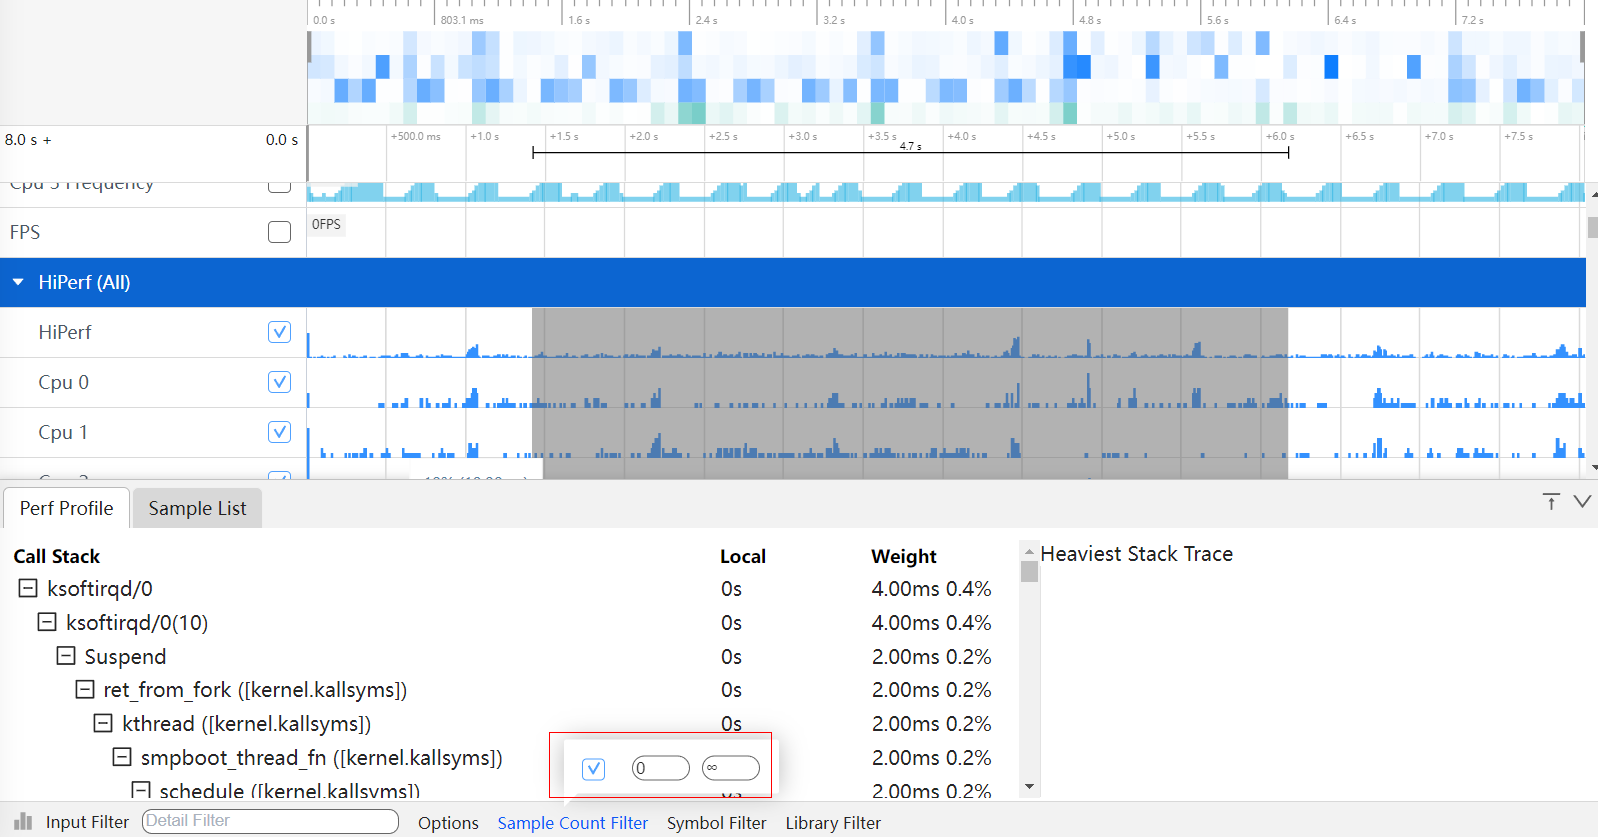
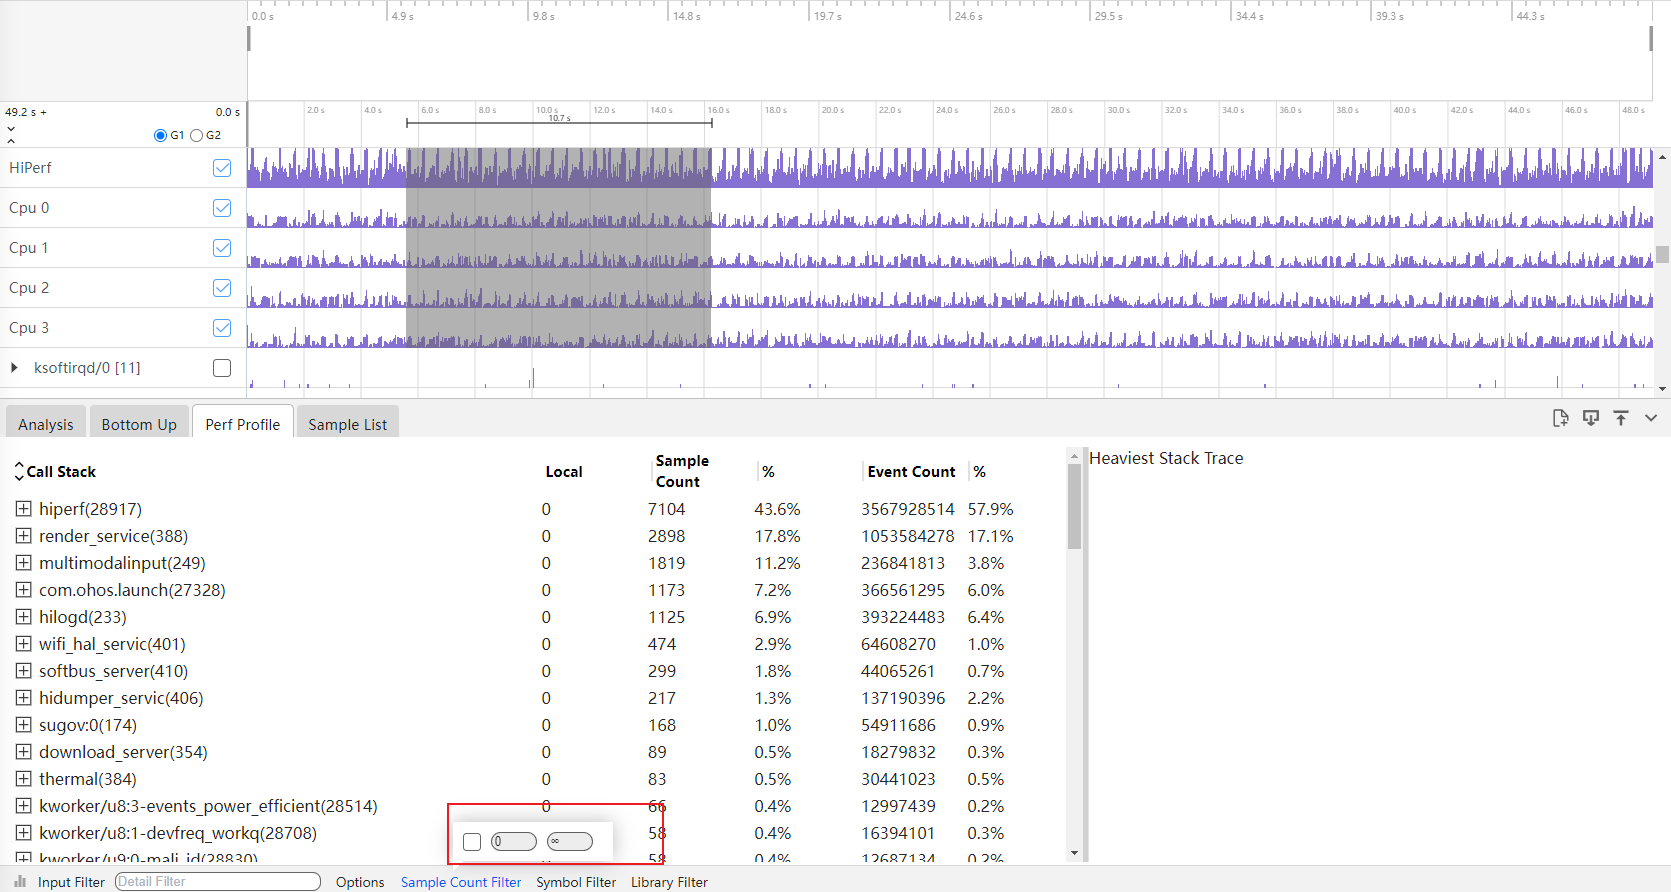
帮助文档修改

diff --git a/ide/src/doc/quickstart_hiperf.html b/ide/src/doc/quickstart_hiperf.html
@@ -885,7 +885,7 @@ Advance Options：更多的抓取配置项。
       <h3 class="mume-header fontColor">HiPerf泳道图的框选功能</h3>
 
       <p class="fontColor">
-        可以对CPU使用量区，线程和进程区数据进行框选，框选后在最下方的弹出层中会展示框选数据的统计表格，总共有两个tab页。<br />
+        可以对CPU使用量区，线程和进程区数据进行框选，框选后在最下方的弹出层中会展示框选数据的统计表格，总共有四个tab页。<br />
         Perf Profile的Tab页如图：<br />
         <img src="../figures/perf/PerfProfile.jpg" alt="GitHub Logo" />
       </p>
@@ -904,7 +904,13 @@ Local：为该调用方法自身占用的CPU时间。
         </li>
         <li>
           <pre class="smartperf-text fontColor light">
-Weight：调用方法的执行次数和占比。
+Sample Count：采样数量。
+</pre
+          >
+        </li>
+        <li>
+          <pre class="smartperf-text fontColor light">
+Event Count：事件数量。
 </pre
           >
         </li>
@@ -954,7 +960,7 @@ Backtrace：栈顶的调用栈名称。
       <h3 class="mume-header fontColor">HiPerf支持多种Options展示风格</h3>
 
       <p class="fontColor">
-        点击Perf Profile的Tab页底部的Options，会有两个CheckBox复选框。<br />
+        点击Perf Profile的Tab页底部的Options，会有四个CheckBox复选框。<br />
         <img src="../figures/perf/Options.jpg" alt="GitHub Logo" />
       </p>
       <ul class="fontColor">
@@ -970,11 +976,23 @@ Hide System so：隐藏系统库文件。
 </pre
           >
         </li>
+        <li>
+          <pre class="smartperf-text fontColor light">
+Hide Thread：隐藏线程。
+</pre
+          >
+        </li>
+        <li>
+          <pre class="smartperf-text fontColor light">
+Hide Thread State：隐藏线程状态。
+</pre
+          >
+        </li>
       </ul>
       <h3 class="mume-header fontColor">HiPerf支持过滤调用栈调用次数的展示风格</h3>
 
       <p class="fontColor">
-        点击Perf Profile的Tab页底部的Sample Counter Filter，可以填上区间值。过滤出符合该区间值调用次数的调用栈信息。<br />
+        点击Perf Profile的Tab页底部的Sample Count Filter，可以填上区间值。过滤出符合该区间值调用次数的调用栈信息。<br />
         <img src="../figures/perf/samplecounter.jpg" alt="GitHub Logo" />
       </p>
       <h3 class="mume-header fontColor">HiPerf功能的调用栈Group展示-数据分析支持剪裁功能</h3>

diff --git a/ide/src/doc/quickstart_bio.html b/ide/src/doc/quickstart_bio.html
@@ -908,7 +908,7 @@ Max Total Latency：最大延迟时间。
         </li>
       </ul>
       <p class="fontColor">
-        Disk I/O Latency Calltree的Tab页如图：<br />
+        Disk I/O Latency CallTree的Tab页如图：<br />
         <img src="../figures/Bio/BioCalltree.jpg" alt="GitHub Logo" />
       </p>
       <ul class="fontColor">
@@ -1006,7 +1006,7 @@ BackTrace：调用栈顶部函数，并显示调用栈深度。
       <h3 class="mume-header fontColor">Bio支持多种Options展示风格</h3>
 
       <p class="fontColor">
-        点击Disk I/O Latency Calltree的Tab页底部的Options，会有两个CheckBox复选框。<br />
+        点击Disk I/O Latency CallTree的Tab页底部的Options，会有两个CheckBox复选框。<br />
         <img src="../figures/Bio/BioOptions.jpg" alt="GitHub Logo" />
       </p>
       <ul class="fontColor">
@@ -1026,7 +1026,7 @@ Hide System so：隐藏系统库文件  。
       <h3 class="mume-header fontColor">Bio支持过滤调用栈调用次数的展示风格</h3>
 
       <p class="fontColor">
-        点击Disk I/O Latency Calltree的Tab页底部的Sample Counter
+        点击Disk I/O Latency CallTree的Tab页底部的Sample Count
         Filter，可以填上区间值。过滤出符合该区间值调用次数的调用栈信息。<br />
         <img src="../figures/Bio/Biocounter.jpg" alt="GitHub Logo" />
       </p>
@@ -1068,9 +1068,9 @@ Hide System so：隐藏系统库文件  。
       <h3 class="mume-header fontColor">Bio的火焰图功能</h3>
 
       <p class="fontColor">
-        点击Disk I/O Latency Calltree左下角的柱状图的图标，会切换到火焰图页面。<br />
+        点击Disk I/O Latency CallTree左下角的柱状图的图标，会切换到火焰图页面。<br />
         <img src="../figures/Bio/Bioflame.jpg" alt="GitHub Logo" /><br />
-        进入到火焰图页面，火焰图的展示跟 Disk I/O Latency Calltree 的tab页的调用栈显示一致，鼠标放到色块上，悬浮框可以显示调用栈名称和Duration时长。<br />
+        进入到火焰图页面，火焰图的展示跟 Disk I/O Latency CallTree 的tab页的调用栈显示一致，鼠标放到色块上，悬浮框可以显示调用栈名称和Duration时长。<br />
         <img src="../figures/Bio/Bioflameshow.jpg" alt="GitHub Logo" /><br />
         鼠标点击火焰图，会进入下一级界面，点击上级则返回上一级界面。<br />
         <img src="../figures/Bio/Bioflamelevel.jpg" alt="GitHub Logo" />

diff --git a/ide/src/doc/quickstart_filesystem.html b/ide/src/doc/quickstart_filesystem.html
@@ -986,6 +986,24 @@ Thread：线程名。
         </li>
         <li>
           <pre class="smartperf-text fontColor light">
+Type：操作类型。
+</pre
+          >
+        </li>
+        <li>
+          <pre class="smartperf-text fontColor light">
+File Descriptor：fd。
+</pre
+          >
+        </li>
+        <li>
+          <pre class="smartperf-text fontColor light">
+File Path：文件路径。
+</pre
+          >
+        </li>
+        <li>
+          <pre class="smartperf-text fontColor light">
 First Argument：系统调用的第一个参数。
 </pre
           >
@@ -1128,7 +1146,7 @@ Hide System so：隐藏系统库文件。
       <h3 class="mume-header fontColor">FileSystem支持过滤调用栈调用次数的展示风格</h3>
 
       <p class="fontColor">
-        点击FileSystem Calltree的Tab页底部的Sample Counter
+        点击FileSystem Calltree的Tab页底部的Sample Count
         Filter，可以填上区间值。过滤出符合该区间值调用次数的调用栈信息。<br />
         <img src="../figures/FileSystem/FileSystemsamplecounter.jpg" alt="GitHub Logo" />
       </p>

diff --git a/ide/src/doc/quickstart_page_fault.html b/ide/src/doc/quickstart_page_fault.html
@@ -1000,7 +1000,7 @@ Hide System so：隐藏系统库文件。
       <h3 class="mume-header fontColor">页内存支持过滤调用栈调用次数的展示风格</h3>
 
       <p class="fontColor">
-        点击Page Fault Calltree的Tab页底部的Sample Counter
+        点击Page Fault Calltree的Tab页底部的Sample Count
         Filter，可以填上区间值。过滤出符合该区间值调用次数的调用栈信息。<br />
         <img src="../figures/EBPF/vmcounter.jpg" alt="GitHub Logo" />
       </p>
@@ -1030,7 +1030,7 @@ Hide System so：隐藏系统库文件。
       <h3 class="mume-header fontColor">页内存的事件类型的过滤</h3>
 
       <p class="fontColor">
-        通过选择可以过滤是File Backed In类型，还是Copy On Write类型事件。<br />
+        通过选择类型事件进行过滤。<br />
         <img src="../figures/EBPF/VMfilter.jpg" alt="GitHub Logo" />
       </p>
       <h3 class="mume-header fontColor">页内存的火焰图功能</h3>

diff --git a/ide/src/doc/quickstart_device_record.html b/ide/src/doc/quickstart_device_record.html
@@ -804,9 +804,9 @@
         <li>Record setting:设置trace的抓取模式，buffer size大小，抓取时长。</li>
         <li>Trace command:生成的抓取命令行。</li>
         <li>Probes config:trace的抓取参数配置。</li>
-        <li>Native Memory:NativeMemory数据的抓取参数配置。</li>
+        <li>Native Memory:Native Memory数据的抓取参数配置。</li>
         <li>Hiperf:Hiperf数据的抓取参数配置。</li>
-        <li>eBPF Config:ebpf数据的抓取参数配置。</li>
+        <li>eBPF Config:eBPF数据的抓取参数配置。</li>
         <li>VM Tracker:smaps数据的抓取参数配置。</li>
         <li>HiSystemEvent:HiSystemEvent数据抓取参数配置。</li>
         <li>SDK Config:SDK数据抓取参数配置。</li>

diff --git a/ide/src/doc/md/quickstart_filesystem.md b/ide/src/doc/md/quickstart_filesystem.md
@@ -35,14 +35,14 @@ FileSystem 分析文件系统的信息和活动，比如读和写操作等。
 
 ### FileSystem 泳道图展示
 
-FileSystem 泳道图按照读操作和写操作展示，鼠标移动都泳道图上，悬浮框会以 10ms 为周期展示读，写类型系统调用的次数。
+FileSystem 泳道图按照读操作和写操作展示，鼠标移动到泳道图上，悬浮框会以 10ms 为周期展示读，写类型系统调用的次数。
 ![GitHub Logo](../../figures/FileSystem/FileSystemchart.jpg)
 按住 w 键放大界面，悬浮框会显示当前时刻的文件读写次数。
 ![GitHub Logo](../../figures/FileSystem/FileSystemcount.jpg)
 
 ### FileSystem 泳道图的框选功能
 
-可以对读写操作泳道图进行框选，框选后在最下方的弹出层中会展示框选数据的统计表格，总共有五个 tab 页。
+可以对读写操作泳道图进行框选，框选后展示框选数据的统计表格，总共有六个 tab 页。
 FileSystem statistics 的 Tab 页如图：
 ![GitHub Logo](../../figures/FileSystem/FileSystemstatistics.jpg)
 
@@ -55,7 +55,7 @@ FileSystem statistics 的 Tab 页如图：
 -     Min Duration：最小时长。
 -     Avg Duration： 平均时长。
 -     Max Duration：最大时长。
-  FileSystem Calltree 的 Tab 页如图：
+  FileSystem CallTree 的 Tab 页如图：
   ![GitHub Logo](../../figures/FileSystem/FileSystemCalltree.jpg)
 -     Call Stack：为经过符号解析后的Callstack，并且给出动态链接库或者进程名的信息。
 -     Local：为该调用方法自身占用的CPU时间。
@@ -66,6 +66,9 @@ FileSystem statistics 的 Tab 页如图：
 -     Duration：时长。
 -     Process：进程名。
 -     Thread：线程名。
+-     Type：操作类型。
+-     File Descriptor：fd。
+-     File Path：文件路径。
 -     First Argument：系统调用的第一个参数。
 -     Second Argument：系统调用的第二个参数。
 -     Third Argument：系统调用的第三个参数。
@@ -80,6 +83,7 @@ FileSystem statistics 的 Tab 页如图：
 -     Process：进程名。
 -     Type：操作类型。
 -     File Descriptor：fd。
+-     Path：文件路径。
 -     Backtrace：调用栈顶部函数，并显示调用栈深度。
   File Descriptor Time Slice 的 Tab 页如图：
   ![GitHub Logo](../../figures/FileSystem/FileSystemtimeslice.jpg)
@@ -87,19 +91,22 @@ FileSystem statistics 的 Tab 页如图：
 -     Open Duration：打开的时长。
 -     Process：进程名。
 -     File Descriptor：fd。
+-     Path：文件路径。
 -     Backtrace：调用栈顶部函数，并显示调用栈深度。
 
 ### FileSystem 支持多种 Options 展示风格
 
-点击 FileSystem Calltree 的 Tab 页底部的 Options，会有两个 CheckBox 复选框。
+点击 FileSystem CallTree 的 Tab 页底部的 Options，会有四个 CheckBox 复选框。
 ![GitHub Logo](../../figures/FileSystem/FileSystemOptions.jpg)
 
 -     Invert：反向输出调用树。
 -     Hide System so：隐藏系统库文件。
+-     Hide Event：隐藏事件。
+-     Hide Thread：隐藏线程。
 
 ### FileSystem 支持过滤调用栈调用次数的展示风格
 
-点击 FileSystem Calltree 的 Tab 页底部的 Sample Counter Filter，可以填上区间值。过滤出符合该区间值调用次数的调用栈信息。
+点击 FileSystem CallTree 的 Tab 页底部的 Sample Count Filter，可以填上区间值。过滤出符合该区间值调用次数的调用栈信息。
 ![GitHub Logo](../../figures/FileSystem/FileSystemsamplecounter.jpg)
 
 ### FileSystem 功能的调用栈 Group 展示-数据分析支持剪裁功能
@@ -128,7 +135,7 @@ FileSystem statistics 的 Tab 页如图：
 
 ### FileSystem 的火焰图功能
 
-点击 FileSystem Calltre 左下角的柱状图的图标，会切换到火焰图页面。
+点击 FileSystem CallTree 左下角的柱状图的图标，会切换到火焰图页面。
 ![GitHub Logo](../../figures/FileSystem/FileSystemflame.jpg)
 进入到火焰图页面，火焰图的展示跟 Callinfo 的 tab 页的调用栈显示一致，鼠标放到色块上，悬浮框可以显示调用栈名称和 Duration 时长。
 ![GitHub Logo](../../figures/FileSystem/FileSystemflameshow.jpg)

diff --git a/ide/src/doc/md/quickstart_native_memory.md b/ide/src/doc/md/quickstart_native_memory.md
@@ -17,7 +17,7 @@ Native Memory 是查看内存的分配和释放等情况。
 - Use Record Accurately：不过滤数据，上报全量的。
 - Use Offline Symbolization：离线符号化。
 - Use Record Statistics：统计数据上报时间间隔设置。
-- Use Startup Mode :抓取应用启动阶段的内存(默认是关闭，需要抓取应用启阶段内存可开启)。
+- Use Startup Mode: 抓取应用启动阶段的内存(默认是关闭，需要抓取应用启阶段内存可开启)。
 
 再点击 Record setting，在 output file path 输入文件名 hiprofiler_data_nativememory.htrace，拖动滚动条设置 buffer size 大小是 64M，抓取时长是 50s。
 ![GitHub Logo](../../figures/NativeMemory/nativememoryset.jpg)
@@ -141,9 +141,10 @@ Call Info 的 Tab 页，主要显示了调用树详细类型。
 
 ### 搜索框支持表达式输入
 
-调用栈默认显示火焰图，新增搜索框表达式输入。表达式作用范围为 nativehook 统计与非统计模式。其中处理的均为 Responsible Library 与 Responsible Caller，其中 Responsible Library，Responsible Caller 表示从下往上非 libc++ musl 的第一条调用栈的 lib 跟 symbol，如下图所示，由于最后一条 [ operator new(unsigned long) ] libc++.so 为 libc++.so 的函数，固跳过，所以该条调用栈的 Responsible Library 为 libhilog.so，Responsible Caller 为 OHOS::HiviewDFX::GetDomainLevel(unsigned int) 。
+调用栈默认会显示火焰图，新增搜索框表达式输入。表达式作用范围为 nativehook 的统计与非统计模式。其中处理的为 Responsible Library 与 Responsible Caller，其中 Responsible Library 和Responsible Caller 表示从下往上非 libc++ musl 的第一条调用栈的 lib 跟 symbol，如下图所示，由于最后一条 [ operator new(unsigned long) ] libc++.so 为 libc++.so 的函数，故跳过，所以该条调用栈的 Responsible Library 为 libhilog.so，Responsible Caller 为 OHOS::HiviewDFX::GetDomainLevel(unsigned int) 。
 ![GitHub Logo](../../figures/NativeMemory/framecaller.jpg)
-表达式说明:在 InputFilter 输入框可以进行搜索过滤和表达式过滤，其中表达式必须以@开头，英文括号包起所需要过滤的内容，每个括号必须包括 （Responsible Library，Responsible Caller）匹配全量以\*表示，否则认为该输入为搜索过滤。
+
+表达式说明: 在 InputFilter 输入框可以进行搜索过滤和表达式过滤，其中表达式必须以@开头，英文括号包起所需要过滤的内容，每个括号必须包括 （Responsible Library，Responsible Caller）匹配全量以\*表示，否则认为该输入为搜索过滤。
 
 | 表达式                                        | 含义                                                                                                                                                           |
 | --------------------------------------------- | -------------------------------------------------------------------------------------------------------------------------------------------------------------- |

diff --git a/ide/src/doc/md/quickstart_page_fault.md b/ide/src/doc/md/quickstart_page_fault.md
@@ -50,7 +50,7 @@ Page Fault Statistics 的 Tab 页如图：
 -     Max Duration：最大时长。
   点击下方的 Statistics by Thread，可以切换到按照 Thread 为基点显示数据。
   ![GitHub Logo](../../figures/EBPF/ebpf_bythread.jpg)
-  Page Fault Calltree 的 Tab 页如图：
+  Page Fault CallTree 的 Tab 页如图：
   ![GitHub Logo](../../figures/EBPF/VMCalltree.jpg)
 -     Call Stack：为经过符号解析后的Callstack，并且给出动态链接库或者进程名的信息。
 -     Local：为该调用方法自身占用的CPU时间。
@@ -66,7 +66,7 @@ Page Fault Statistics 的 Tab 页如图：
 
 ### 页内存支持多种 Options 展示风格
 
-点击 Page Fault Calltree 的 Tab 页底部的 Options，会有两个 CheckBox 复选框。
+点击 Page Fault CallTree 的 Tab 页底部的 Options，会有两个 CheckBox 复选框。
 ![GitHub Logo](../../figures/EBPF/vmOptions.jpg)
 
 -     Invert：反向输出调用树。
@@ -74,7 +74,7 @@ Page Fault Statistics 的 Tab 页如图：
 
 ### 页内存支持过滤调用栈调用次数的展示风格
 
-点击 Page Fault Calltree 的 Tab 页底部的 Sample Counter Filter，可以填上区间值。过滤出符合该区间值调用次数的调用栈信息。
+点击 Page Fault CallTree 的 Tab 页底部的 Sample Count Filter，可以填上区间值。过滤出符合该区间值调用次数的调用栈信息。
 ![GitHub Logo](../../figures/EBPF/vmcounter.jpg)
 
 ### 页内存功能的调用栈 Group 展示-数据分析支持剪裁功能
@@ -97,12 +97,12 @@ Page Fault Statistics 的 Tab 页如图：
 
 ### 页内存的事件类型的过滤
 
-通过选择可以过滤是 File Backed In 类型，还是 Copy On Write 类型事件。
+通过选择类型事件进行过滤。
 ![GitHub Logo](../../figures/EBPF/VMfilter.jpg)
 
 ### 页内存的火焰图功能
 
-点击 Page Fault Calltree 左下角的柱状图的图标，会切换到火焰图页面。
+点击 Page Fault CallTree 左下角的柱状图的图标，会切换到火焰图页面。
 ![GitHub Logo](../../figures/EBPF/vmflame.jpg)
 进入到火焰图页面，火焰图的展示跟 Callinfo 的 tab 页的调用栈显示一致，鼠标放到色块上，悬浮框可以显示调用栈名称和 Duration 时长。
 ![GitHub Logo](../../figures/EBPF/vmflameshow.jpg)

diff --git a/ide/src/doc/md/quickstart_device_record.md b/ide/src/doc/md/quickstart_device_record.md
@@ -7,15 +7,15 @@
 ![GitHub Logo](../../figures/hiprofilercmd/systraceconfig.jpg)
 说明：
 
-- Record setting:设置 trace 的抓取模式，buffer size 大小，抓取时长。
-- Trace command:生成的抓取命令行。
-- Probes config:trace 的抓取参数配置。
-- Native Memory:NativeMemory 数据的抓取参数配置。
-- Hiperf:Hiperf 数据的抓取参数配置。
-- eBPF Config:ebpf 数据的抓取参数配置。
-- VM Tracker:smaps 数据的抓取参数配置。
-- HiSystemEvent:HiSystemEvent 数据抓取参数配置。
-- SDK Config:SDK 数据抓取参数配置。
+- Record setting: 设置 trace 的抓取模式，buffer size 大小，抓取时长。
+- Trace command: 生成的抓取命令行。
+- Probes config: trace 的抓取参数配置。
+- Native Memory: NativeMemory 数据的抓取参数配置。
+- Hiperf: Hiperf 数据的抓取参数配置。
+- eBPF Config: ebpf 数据的抓取参数配置。
+- VM Tracker: Smaps数据的抓取参数配置。
+- HiSystemEvent: HiSystemEvent 数据抓取参数配置。
+- SDK Config: SDK 数据抓取参数配置。
 
 ## 命令行的生成和 trace 文件的抓取
 
@@ -27,12 +27,12 @@
 ![GitHub Logo](../../figures/hiprofilercmd/command.jpg)
 命令参数说明：
 
-- -o:文件的输入路径和名称。
-- -t:抓取的时长。
-- buffer pages:buffer size 大小。
-- sample_duration:数据采集的时间。
-- sample_interval:主动获取插件数据的间隔时间（ms，只针对轮询插件，例如 memory 插件，cpu 插件，dikio 插件等，对流式插件和独立插件无效）。
-- trace_period_ms:ftrace 插件读取内核缓冲区数据的间隔时间（ms）。
+- -o: 文件的输入路径和名称。
+- -t: 抓取的时长。
+- buffer pages: buffer size 大小。
+- sample_duration: 数据采集的时间。
+- sample_interval: 主动获取插件数据的间隔时间（ms，只针对轮询插件，例如 memory 插件，cpu 插件，dikio 插件等，对流式插件和独立插件无效）。
+- trace_period_ms: ftrace 插件读取内核缓冲区数据的间隔时间（ms）。
 - hitrace_time:hitrace 命令行抓取时间，与 hiprofiler_cmd 下发的-t 配置联动。
 
 输入 hdc_std shell，进入设备，执行命令。

diff --git a/ide/src/doc/md/quickstart_web_record.md b/ide/src/doc/md/quickstart_web_record.md
@@ -5,10 +5,11 @@
 ## 界面配置说明
 
 ![GitHub Logo](../../figures/hdc/hdc.jpg)
+
 说明：
 
-- Record:trace 抓取按钮。
-- Add HDC Device:连接设备。
+- Record: trace 抓取按钮。
+- Add HDC Device: 连接设备。
 
 ## trace 文件的在线抓取
 
@@ -18,13 +19,13 @@
 ![GitHub Logo](../../figures/hdc/Schedulingdetails.jpg)
 抓取项说明：
 
-- Scheduling details:线程切换事件，暂停恢复方法，线程唤醒事件，进程退出和销毁处理，新建线程处理方法，线程重命名处理方法。
-- CPU Frequency and idle states:CPU 频率信息和 CPU 空闲状态。
-- Advanced ftrace config:线程切换事件，暂停恢复方法，线程唤醒事件，进程退出和销毁处理，新建线程处理方法，线程重命名处理方法，IRQ 事件，时钟频率处理方法，Binder 事件，线程调用堆栈开始和结束的处理。
-- AbilityMonitor:进程的 CPU，内存，磁盘，网络使用情况。
-- Kernel meminfo:内核内存。
-- Virtual memory stats:系统虚拟内存。
-- Hitrace categories:Bytrace 的抓取项，各解释项说明如下图：
+- Scheduling details: 线程切换事件，暂停恢复方法，线程唤醒事件，进程退出和销毁处理，新建线程处理方法，线程重命名处理方法。
+- CPU Frequency and idle states: CPU 频率信息和 CPU 空闲状态。
+- Advanced ftrace config: 线程切换事件，暂停恢复方法，线程唤醒事件，进程退出和销毁处理，新建线程处理方法，线程重命名处理方法，IRQ 事件，时钟频率处理方法，Binder 事件，线程调用堆栈开始和结束的处理。
+- AbilityMonitor: 进程的 CPU，内存，磁盘，网络使用情况。
+- Kernel meminfo: 内核内存。
+- Virtual memory stats: 系统虚拟内存。
+- Hitrace categories: Bytrace 的抓取项，各解释项说明如下图：
   ![GitHub Logo](../../figures/hdc/bytacedescription.jpg)
 
 再点击 Record setting，在 output file path 输入文件名 hiprofiler_data_example.htrace，拖动滚动条设置 buffer size 大小是 64M，抓取时长是 50s。
